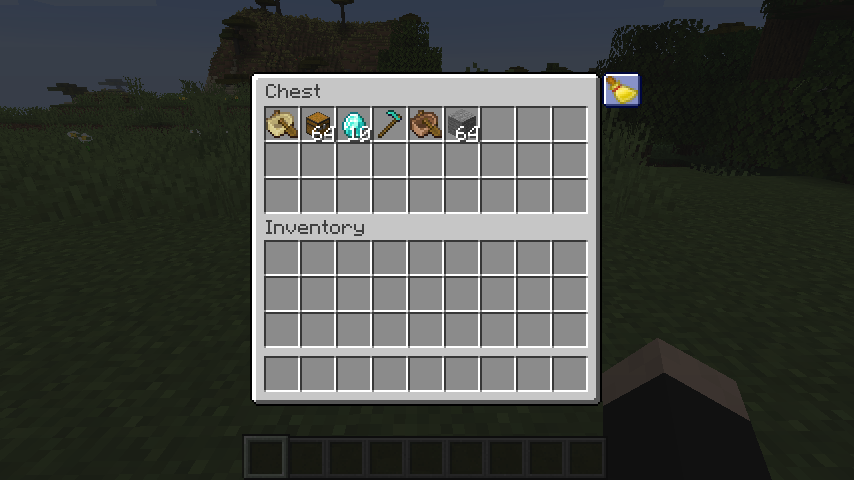
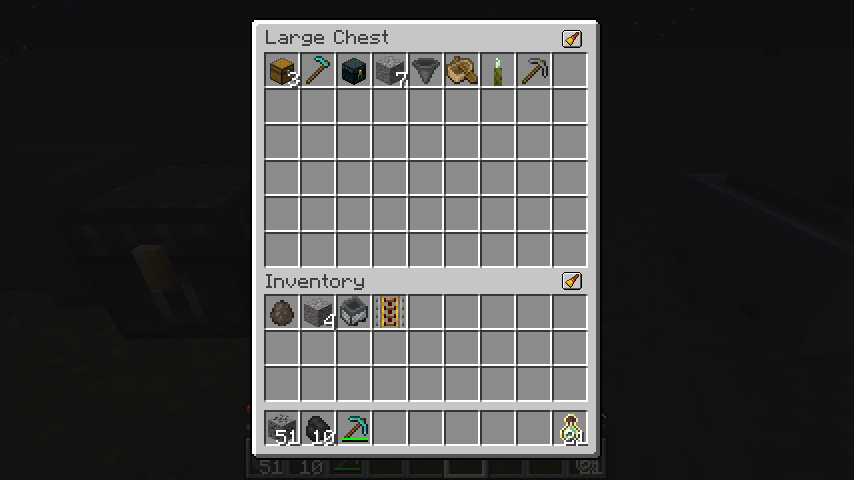
Update images

diff --git a/src/main/java/net/kyrptonaught/inventorysorter/mixin/MixinAbstractContainerScreen.java b/src/main/java/net/kyrptonaught/inventorysorter/mixin/MixinAbstractContainerScreen.java
@@ -37,7 +37,7 @@ public abstract class MixinAbstractContainerScreen extends Screen {
     private void invsort$init(CallbackInfo callbackinfo) {
         if (!InventoryHelper.isSortableInventory(this)) return;
         if (InventorySorterMod.getConfig().displaySort) {
-            this.addButton(invsort$SortBtn = new SortButtonWidget(this.left + this.containerWidth - 20, top + 4, press -> InventorySortPacket.sendSortPacket(this)));
+            this.addButton(invsort$SortBtn = new SortButtonWidget(this.left + this.containerWidth - 20, top + 6, press -> InventorySortPacket.sendSortPacket(this)));
             if (InventorySorterMod.getConfig().seperateBtn && !(super.minecraft.currentScreen instanceof InventoryScreen))
                 this.addButton(new SortButtonWidget(invsort$SortBtn.x, containerHeight - 86, press -> InventorySortPacket.sendSortPacket(true)));
         }
